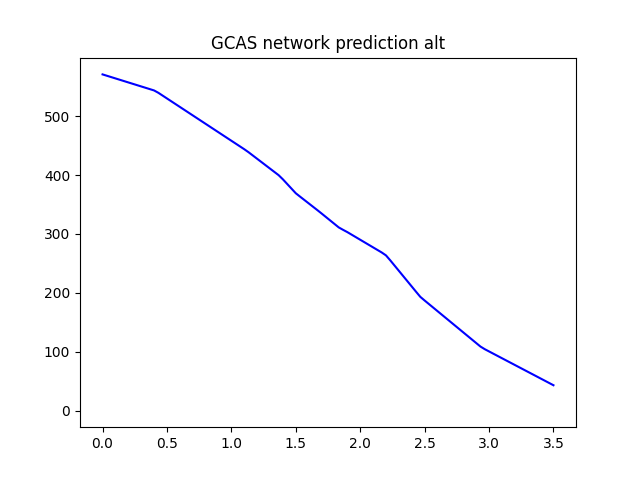
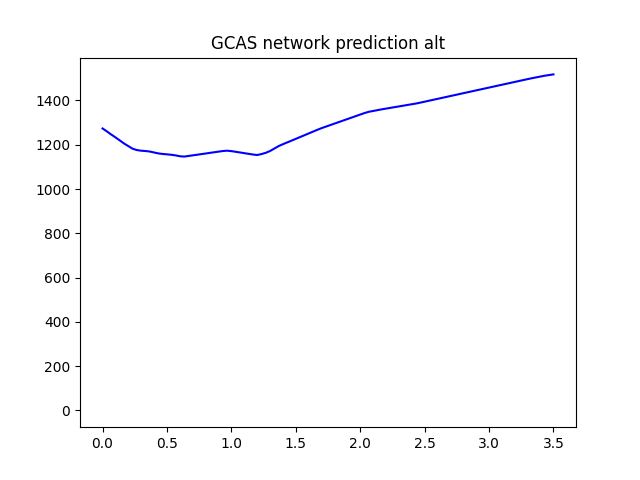
updated gcas

diff --git a/gcas/spec_gcas.py b/gcas/spec_gcas.py
@@ -79,28 +79,46 @@ def main():
     #trange = (0, 106 * 1/30)
     trange = (105 * 1/30, 105 * 1/30 + 1e-4)
 
-    vt = 540
-    alpha = deg2rad(2.1215)
-    beta = 0
+    if False:
 
-    phi = -pi/8           # Roll angle from wings level (rad)
-    #theta = (-math.pi/2)*0.3         # Pitch angle from nose level (rad)
-    theta = 0         # Pitch angle from nose level (rad)
-    psi = 0   # Yaw angle from North (rad)
+        vt = 540
+        alpha = deg2rad(2.1215)
+        beta = 0
 
-    P = 0
-    Q = 0
-    R = 0
+        phi = -pi/8           # Roll angle from wings level (rad)
+        #theta = (-math.pi/2)*0.3         # Pitch angle from nose level (rad)
+        theta = 0         # Pitch angle from nose level (rad)
+        psi = 0   # Yaw angle from North (rad)
 
-    Pn  = 0
-    Pe = 0
-    
-    alt = 1200
-    power = 8
-    
-    pt = [vt, alpha, beta, phi, theta, psi, P, Q, R, Pn, Pe, alt, power]
+        P = 0
+        Q = 0
+        R = 0
 
-    tuples_list = [(x, x) for x in pt] + [trange]
+        Pn  = 0
+        Pe = 0
+
+        alt = 1200
+        power = 8
+
+        pt = [vt, alpha, beta, phi, theta, psi, P, Q, R, Pn, Pe, alt, power]
+
+        tuples_list = [(x, x) for x in pt] + [trange]
+    else:
+        # yue paper init set
+        tuples_list = [(560.0040, 599.9999),
+            (0.0750, 0.1000),
+            (-0.0100, 0.0100),
+            (-0.1000, -0.0750),
+            (-0.9996, -0.5000),
+            (-0.0100, 0.0100),
+            (-0.0100, 0.0100),
+            (-0.0100, 0.0100),
+            (-0.0100, 0.0100),
+            (-0.0100, 0.0100),
+            (-0.0100, 0.0100),
+            (1150.0081, 1199.9975),
+            (0.0002, 0.9998),
+            trange]
 
     # scale input
     for i, tup in enumerate(tuples_list):
@@ -128,7 +146,7 @@ def main():
     # rad 0.2, log_prob 0.2
     alt_index = 12
     prob_index = 0
-    min_alt = 42 # 42.9
+    min_alt = 0 # 42.9
     
     row1 = [1 if i == alt_index else 0 for i in range(14)]
     row2 = [-1 if i == prob_index else 0 for i in range(14)]
@@ -139,9 +157,9 @@ def main():
     # apply output scaling to rhs
     rhs_indices = [alt_index, prob_index] ##### HERE !!!!!!!
     
-    for i, x in zip(rhs_indices, rhs):
-        newx = (x + scaling_dict['out_means'][i]) / scaling_dict['out_stds'][i]
-        rhs[i] = newx
+    for rhs_index, (i, x) in enumerate(zip(rhs_indices, rhs)):
+        newx = (x - scaling_dict['out_means'][i]) / scaling_dict['out_stds'][i]
+        rhs[rhs_index] = newx
 
         print(f"rhs {x} -> {newx}")
         

diff --git a/gcas/run_GCAS.py b/gcas/run_GCAS.py
@@ -19,7 +19,7 @@ def main():
     'main function'
 
     ### Initial Conditions ###
-    power = 8 # engine power level (0-10)
+    power = 0.5045 # 8 # engine power level (0-10)
 
     # Default alpha & beta
     alpha = deg2rad(2.1215) # Trim Angle of Attack (rad)
@@ -27,8 +27,8 @@ def main():
 
     # Initial Attitude
     alt = 1200        # altitude (ft)
-    vt = 540          # initial velocity (ft/sec)
-    phi = -math.pi/8           # Roll angle from wings level (rad)
+    vt = 560          # initial velocity (ft/sec)
+    phi = -0.0877 #-math.pi/8           # Roll angle from wings level (rad)
     theta = (-math.pi/2)*0.3         # Pitch angle from nose level (rad)
     psi = 0   # Yaw angle from North (rad)
 

diff --git a/gcas/run_onnx_gcas.py b/gcas/run_onnx_gcas.py
@@ -67,7 +67,7 @@ def main():
     alpha = deg2rad(2.1215)
     beta = 0
 
-    phi = -math.pi/8           # Roll angle from wings level (rad)
+    phi = -0.0877 # -math.pi/8           # Roll angle from wings level (rad)
     #theta = (-math.pi/2)*0.3         # Pitch angle from nose level (rad)
     theta = 0         # Pitch angle from nose level (rad)
     psi = 0   # Yaw angle from North (rad)
@@ -80,7 +80,7 @@ def main():
     Pe = 0
     
     alt = 1200
-    power = 8
+    power = 0.5045 #8
 
     pt = [vt, alpha, beta, phi, theta, psi, P, Q, R, Pn, Pe, alt, power]
     num_inputs = len(pt)
